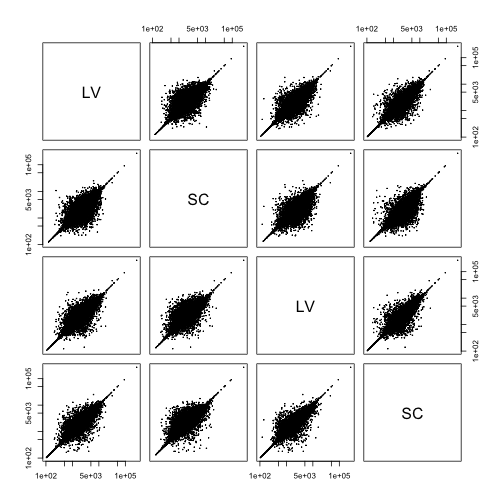
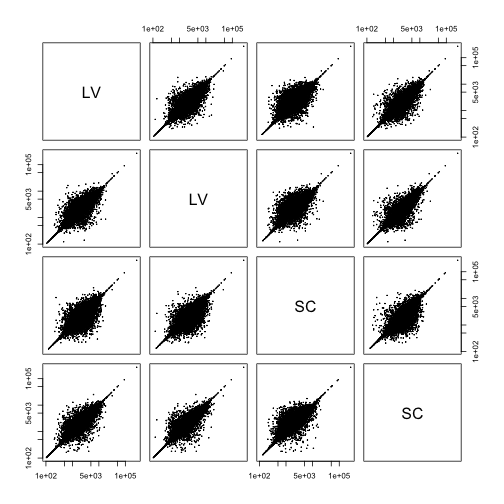
ordering samples

diff --git a/README.md b/README.md
@@ -37,23 +37,26 @@ average transcript length, would be:
 The files are RNA-seq runs from the UCSD Human Reference Epigenome
 Mapping Project. Note that these are individuals runs from experiments
 which might have had multiple runs per experiment.
-The files are in the order: left ventricle, sigmoid colon, left ventricle, sigmoid colon.
+The experiments are two samples of each: left ventricle and sigmoid colon.
 
 
 ```r
-(samples <- list.files("rsem_out"))
+samples <- list.files("rsem_out")
+condition <- scan("condition.txt",what="char")
+ord <- order(condition)
+(samples <- samples[ord])
 ```
 
 ```
-## [1] "SRR577587" "SRR577595" "SRR578627" "SRR578635"
+## [1] "SRR577587" "SRR578627" "SRR577595" "SRR578635"
 ```
 
 ```r
-(condition <- c("LV","SC","LV","SC"))
+(condition <- condition[ord])
 ```
 
 ```
-## [1] "LV" "SC" "LV" "SC"
+## [1] "LV" "LV" "SC" "SC"
 ```
 
 ## RSEM output
@@ -105,13 +108,13 @@ head(rsem)
 ```
 
 ```
-##                 SRR577587 SRR577595 SRR578627 SRR578635
-## ENSG00000000003   1917.31   1880.45   2058.40   2073.04
-## ENSG00000000005    786.96    781.80   1170.59    374.96
-## ENSG00000000419    891.14    916.23    907.13    908.85
-## ENSG00000000457   5934.49   3251.06   3243.15   3240.75
-## ENSG00000000460   2617.80   3568.30   1491.74   2433.27
-## ENSG00000000938   1964.99   2290.79   2225.01   2192.96
+##                 SRR577587 SRR578627 SRR577595 SRR578635
+## ENSG00000000003   1917.31   2058.40   1880.45   2073.04
+## ENSG00000000005    786.96   1170.59    781.80    374.96
+## ENSG00000000419    891.14    907.13    916.23    908.85
+## ENSG00000000457   5934.49   3243.15   3251.06   3240.75
+## ENSG00000000460   2617.80   1491.74   3568.30   2433.27
+## ENSG00000000938   1964.99   2225.01   2290.79   2192.96
 ```
 
 ## Cufflinks output
@@ -166,13 +169,13 @@ head(cuff)
 ```
 
 ```
-##                 SRR577587 SRR577595 SRR578627 SRR578635
-## ENSG00000000003 2205.0650  2222.429  2284.611 2263.9102
+##                 SRR577587 SRR578627 SRR577595 SRR578635
+## ENSG00000000003 2205.0650  2284.611  2222.429 2263.9102
 ## ENSG00000000005       NaN  1339.000  1339.000  677.3134
 ## ENSG00000000419  996.7745  1075.000  1075.000 1075.0000
-## ENSG00000000457 6364.0000  4670.106  4307.202 4997.9242
-## ENSG00000000460 2653.6558  3824.666  1751.074 2690.7123
-## ENSG00000000938 2316.1061  2507.561  2360.064 2343.4121
+## ENSG00000000457 6364.0000  4307.202  4670.106 4997.9242
+## ENSG00000000460 2653.6558  1751.074  3824.666 2690.7123
+## ENSG00000000938 2316.1061  2360.064  2507.561 2343.4121
 ```
 
 ## Genes with zero length
@@ -199,13 +202,13 @@ head(norm.mat)
 ```
 
 ```
-##                 SRR577587 SRR577595 SRR578627 SRR578635
-## ENSG00000000003 0.9680983 0.9494867 1.0393382 1.0467303
-## ENSG00000000005 1.0916744 1.0845165 1.6238477 0.5201462
-## ENSG00000000419 0.9838251 1.0115246 1.0014782 1.0033771
-## ENSG00000000457 1.5726358 0.8615287 0.8594325 0.8587966
-## ENSG00000000460 1.0848411 1.4787374 0.6181912 1.0083702
-## ENSG00000000938 0.9076811 1.0581767 1.0277912 1.0129864
+##                 SRR577587 SRR578627 SRR577595 SRR578635
+## ENSG00000000003 0.9680983 1.0393382 0.9494867 1.0467303
+## ENSG00000000005 1.0916744 1.6238477 1.0845165 0.5201462
+## ENSG00000000419 0.9838251 1.0014782 1.0115246 1.0033771
+## ENSG00000000457 1.5726358 0.8594325 0.8615287 0.8587966
+## ENSG00000000460 1.0848411 0.6181912 1.4787374 1.0083702
+## ENSG00000000938 0.9076811 1.0277912 1.0581767 1.0129864
 ```
 
 ## Input to DESeq2
@@ -237,13 +240,13 @@ head(normalizationFactors(dds))
 ```
 
 ```
-##      SRR577587 SRR577595 SRR578627 SRR578635
-## [1,] 0.9387263 0.9384330 1.0651131 1.0657664
-## [2,] 1.0585532 1.0718907 1.6641181 0.5296057
-## [3,] 0.9539760 0.9997486 1.0263142 1.0216247
-## [4,] 1.5249223 0.8514989 0.8807459 0.8744149
-## [5,] 1.0519272 1.4615222 0.6335220 1.0267086
-## [6,] 0.8801421 1.0458576 1.0532798 1.0314089
+##      SRR577587 SRR578627 SRR577595 SRR578635
+## [1,] 0.9386213 1.0654183 0.9386604 1.0653221
+## [2,] 1.0584347 1.6645950 1.0721505 0.5293849
+## [3,] 0.9538692 1.0266083 0.9999909 1.0211989
+## [4,] 1.5247517 0.8809983 0.8517053 0.8740504
+## [5,] 1.0518095 0.6337035 1.4618764 1.0262807
+## [6,] 0.8800437 1.0535816 1.0461111 1.0309790
 ```
 
 ## Input to edgeR
@@ -311,7 +314,7 @@ suppressWarnings(pairs(cuff,log="xy",cex=.1))
 ```r
 mypar()
 rsem_a <- rowMeans(rsem)
-rsem_m <- log2(rowMeans(rsem[,c(2,4)])/rowMeans(rsem[,c(1,3)]))
+rsem_m <- log2(rowMeans(rsem[,condition == "SC"])/rowMeans(rsem[,condition == "LV"]))
 plot(rsem_a, rsem_m, log="x", xlab="A", ylab="M", main="rsem", cex=.3)
 ```
 
@@ -330,7 +333,7 @@ abline(h=0,col="blue")
 ```r
 mypar()
 cuff_a <- rowMeans(cuff)
-cuff_m <- log2(rowMeans(cuff[,c(2,4)])/rowMeans(cuff[,c(1,3)]))
+cuff_m <- log2(rowMeans(cuff[,condition == "SC"])/rowMeans(cuff[,condition == "LV"]))
 plot(cuff_a, cuff_m, log="x", xlab="A", ylab="M", main="cufflinks", cex=.3)
 abline(h=0,col="blue")
 ```
